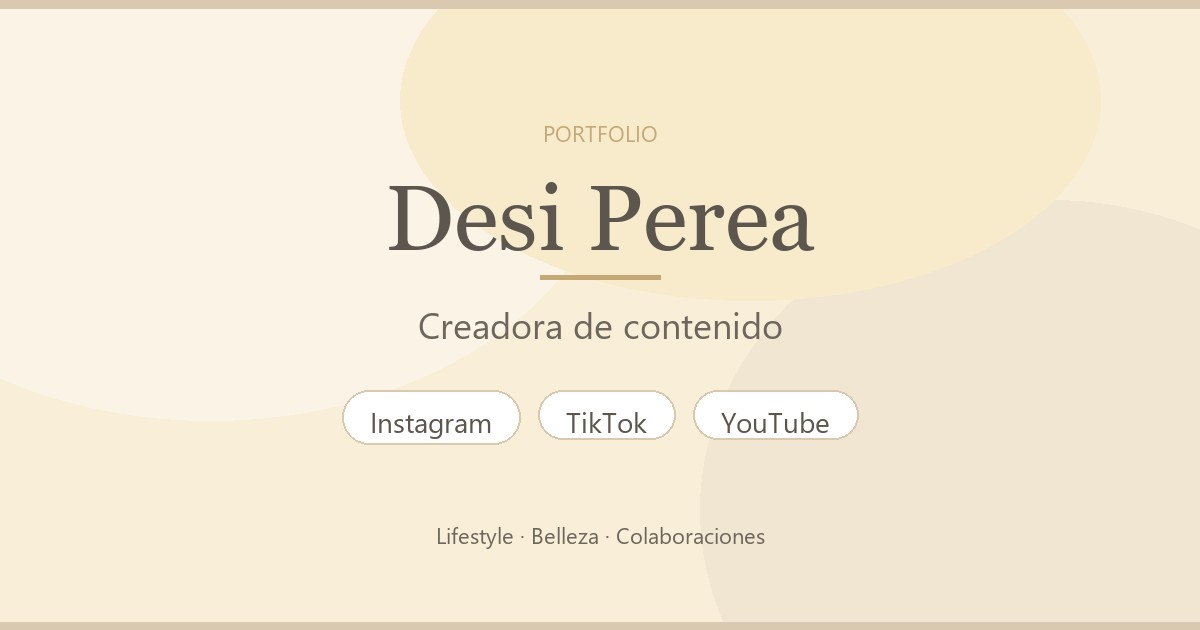
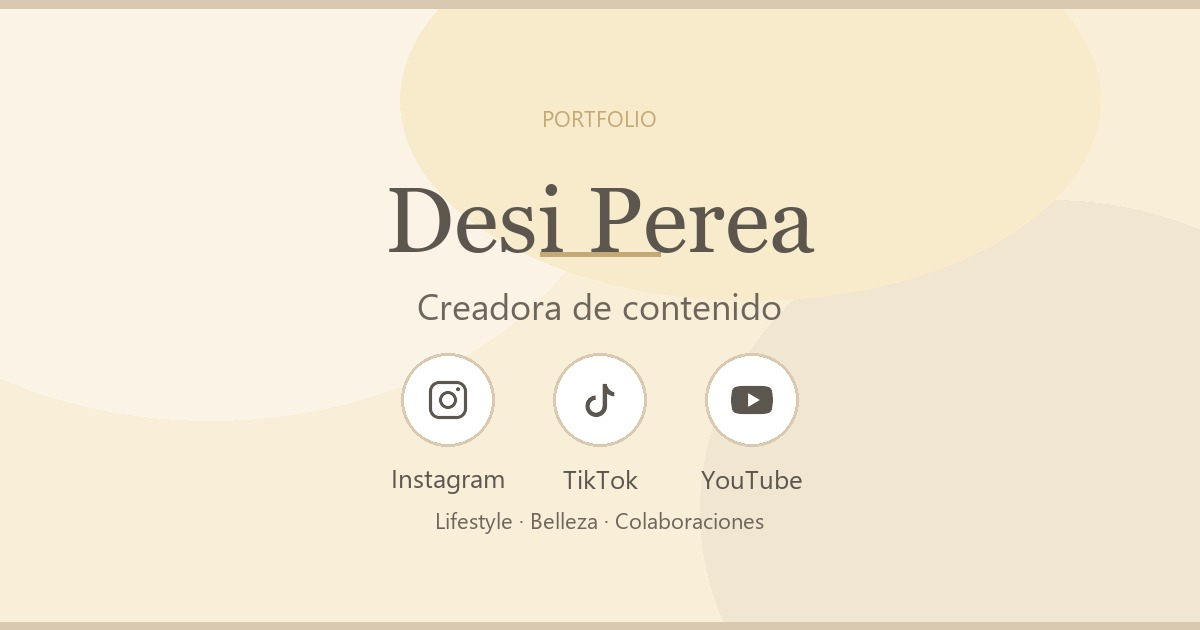
Update gallery captions, metrics, OG image, and local dev paths.

diff --git a/assets/js/config.js b/assets/js/config.js
@@ -1,9 +1,24 @@
 /**
  * Configuración de despliegue y sitio — edite canonicalUrl y CNAME antes de producción.
  */
+
+/** GitHub Pages usa subruta; Live Server y servidores locales suelen usar la raíz del proyecto. */
+function resolveBasePath() {
+  try {
+    const { hostname, pathname } = globalThis.location;
+    if (hostname === "danielnavas34.github.io") return "/Web-desi-perea";
+    if (pathname === "/Web-desi-perea" || pathname.startsWith("/Web-desi-perea/")) {
+      return "/Web-desi-perea";
+    }
+  } catch {
+    /* sin window (tests) */
+  }
+  return "";
+}
+
 export const config = {
   site: {
-    basePath: "/Web-desi-perea",
+    basePath: resolveBasePath(),
     canonicalUrl: "https://danielnavas34.github.io/Web-desi-perea",
     lang: "es",
     name: "Desi Perea",

diff --git a/scripts/build-og-image.py b/scripts/build-og-image.py
@@ -1,0 +1,163 @@
+"""Generate assets/images/og-image.jpg — branded OG card."""
+from __future__ import annotations
+
+import subprocess
+import tempfile
+from pathlib import Path
+
+from PIL import Image, ImageDraw, ImageFont
+
+ROOT = Path(__file__).resolve().parents[1]
+OUT = ROOT / "assets" / "images" / "og-image.jpg"
+
+W, H = 1200, 630
+PRIMARY = "#5c564e"
+MUTED = "#6e665c"
+ACCENT = "#c4a876"
+BG = "#f9eed8"
+BEIGE = "#d9c9b0"
+
+# Same paths as assets/js/main.js SOCIAL_ICONS
+SOCIAL_SVG = {
+    "Instagram": (
+        '<svg xmlns="http://www.w3.org/2000/svg" viewBox="0 0 24 24">'
+        f'<path fill="{PRIMARY}" d="M7.5 2h9A5.5 5.5 0 0 1 22 7.5v9A5.5 5.5 0 0 1 16.5 22h-9A5.5 5.5 0 0 1 2 16.5v-9A5.5 5.5 0 0 1 7.5 2Zm0 1.75A3.75 3.75 0 0 0 3.75 7.5v9A3.75 3.75 0 0 0 7.5 20.25h9A3.75 3.75 0 0 0 20.25 16.5v-9A3.75 3.75 0 0 0 16.5 3.75h-9Zm9.75 1.5a1.125 1.125 0 1 1 0 2.25 1.125 1.125 0 0 1 0-2.25ZM12 7.25A4.75 4.75 0 1 1 12 16.75 4.75 4.75 0 0 1 12 7.25Zm0 1.75a3 3 0 1 0 0 6 3 3 0 0 0 0-6Z"/>'
+        "</svg>"
+    ),
+    "TikTok": (
+        '<svg xmlns="http://www.w3.org/2000/svg" viewBox="0 0 24 24">'
+        f'<path fill="{PRIMARY}" d="M14.5 3c.4 2.2 1.8 3.9 4 4.4v2.3c-1.4-.1-2.7-.6-3.8-1.4v6.4c0 3.2-2.5 5.7-5.7 5.7S3.3 17.9 3.3 14.7c0-3.1 2.4-5.6 5.5-5.7v2.4c-1.8.1-3.2 1.6-3.2 3.3 0 1.8 1.5 3.3 3.3 3.3s3.3-1.5 3.3-3.3V3h2.3Z"/>'
+        "</svg>"
+    ),
+    "YouTube": (
+        '<svg xmlns="http://www.w3.org/2000/svg" viewBox="0 0 24 24">'
+        f'<path fill="{PRIMARY}" d="M22.5 7.2a3.1 3.1 0 0 0-2.2-2.2C18.5 4.5 12 4.5 12 4.5s-6.5 0-8.3.5A3.1 3.1 0 0 0 1.5 7.2 32.6 32.6 0 0 0 1 12a32.6 32.6 0 0 0 .5 4.8 3.1 3.1 0 0 0 2.2 2.2c1.8.5 8.3.5 8.3.5s6.5 0 8.3-.5a3.1 3.1 0 0 0 2.2-2.2A32.6 32.6 0 0 0 23 12a32.6 32.6 0 0 0-.5-4.8ZM10 15.5v-7l6 3.5-6 3.5Z"/>'
+        "</svg>"
+    ),
+}
+
+
+def load_fonts():
+    display = r"C:\Windows\Fonts\georgia.ttf"
+    body = r"C:\Windows\Fonts\segoeui.ttf"
+    if not Path(display).exists():
+        display = body
+    return {
+        "name": ImageFont.truetype(display, 92),
+        "sub": ImageFont.truetype(body, 36),
+        "pill": ImageFont.truetype(body, 26),
+        "eyebrow": ImageFont.truetype(body, 22),
+    }
+
+
+def draw_background() -> Image.Image:
+    img = Image.new("RGB", (W, H), BG)
+    overlay = Image.new("RGBA", (W, H), (0, 0, 0, 0))
+    od = ImageDraw.Draw(overlay)
+    od.ellipse((-200, -180, 620, 420), fill=(255, 255, 255, 90))
+    od.ellipse((700, 200, 1400, 820), fill=(232, 220, 202, 120))
+    od.ellipse((400, -100, 1100, 300), fill=(245, 230, 184, 100))
+    img = Image.alpha_composite(img.convert("RGBA"), overlay).convert("RGB")
+    draw = ImageDraw.Draw(img)
+    draw.rectangle((0, 0, W, 8), fill=BEIGE)
+    draw.rectangle((0, H - 8, W, H), fill=BEIGE)
+    return img
+
+
+def rasterize_svg(svg: str, px: int) -> Image.Image:
+    with tempfile.TemporaryDirectory() as tmp:
+        svg_path = Path(tmp) / "icon.svg"
+        png_path = Path(tmp) / "icon.png"
+        svg_path.write_text(svg, encoding="utf-8")
+        subprocess.run(
+            [
+                "npx",
+                "--yes",
+                "@resvg/resvg-js-cli",
+                "--fit-width",
+                str(px),
+                "--fit-height",
+                str(px),
+                str(svg_path),
+                str(png_path),
+            ],
+            check=True,
+            cwd=ROOT,
+            shell=True,
+        )
+        return Image.open(png_path).convert("RGBA")
+
+
+def alpha_bbox(img: Image.Image) -> tuple[int, int, int, int] | None:
+    return img.split()[3].getbbox()
+
+
+def center_paste(canvas: Image.Image, icon: Image.Image) -> None:
+    bbox = alpha_bbox(icon)
+    if not bbox:
+        return
+    cropped = icon.crop(bbox)
+    cw, ch = cropped.size
+    size = canvas.size[0]
+    canvas.paste(cropped, ((size - cw) // 2, (size - ch) // 2), cropped)
+
+
+def draw_social_circle(
+    base: Image.Image,
+    cx: int,
+    cy: int,
+    diameter: int,
+    label: str,
+    fonts,
+) -> None:
+    r = diameter // 2
+    circle = Image.new("RGBA", (diameter, diameter), (0, 0, 0, 0))
+    cd = ImageDraw.Draw(circle)
+    cd.ellipse((1, 1, diameter - 2, diameter - 2), fill=(255, 255, 255, 255), outline=BEIGE, width=3)
+
+    icon_px = int(diameter * 0.48)
+    icon = rasterize_svg(SOCIAL_SVG[label], icon_px)
+    icon_layer = Image.new("RGBA", (diameter, diameter), (0, 0, 0, 0))
+    center_paste(icon_layer, icon)
+    circle = Image.alpha_composite(circle, icon_layer)
+    base.paste(circle, (cx - r, cy - r), circle)
+
+    draw = ImageDraw.Draw(base)
+    draw.text((cx, cy + r + 22), label, font=fonts["pill"], fill=PRIMARY, anchor="mt")
+
+
+def main() -> None:
+    fonts = load_fonts()
+    img = draw_background()
+    draw = ImageDraw.Draw(img)
+
+    for text, font, y, color in (
+        ("PORTFOLIO", fonts["eyebrow"], 118, ACCENT),
+        ("Desi Perea", fonts["name"], 220, PRIMARY),
+        ("Creadora de contenido", fonts["sub"], 305, MUTED),
+    ):
+        draw.text((W // 2, y), text, font=font, fill=color, anchor="mm")
+
+    rule_w = 120
+    draw.rectangle(((W - rule_w) // 2, 252, (W + rule_w) // 2, 256), fill=ACCENT)
+
+    platforms = ("Instagram", "TikTok", "YouTube")
+    diameter = 96
+    gap = 56
+    row_w = len(platforms) * diameter + (len(platforms) - 1) * gap
+    start_x = (W - row_w) // 2 + diameter // 2
+    circle_cy = 400
+
+    for i, label in enumerate(platforms):
+        cx = start_x + i * (diameter + gap)
+        draw_social_circle(img, cx, circle_cy, diameter, label, fonts)
+
+    draw.text((W // 2, 520), "Lifestyle · Belleza · Colaboraciones", font=fonts["eyebrow"], fill=MUTED, anchor="mm")
+
+    OUT.parent.mkdir(parents=True, exist_ok=True)
+    img.save(OUT, "JPEG", quality=92, optimize=True)
+    print(f"Wrote {OUT}")
+
+
+if __name__ == "__main__":
+    main()
